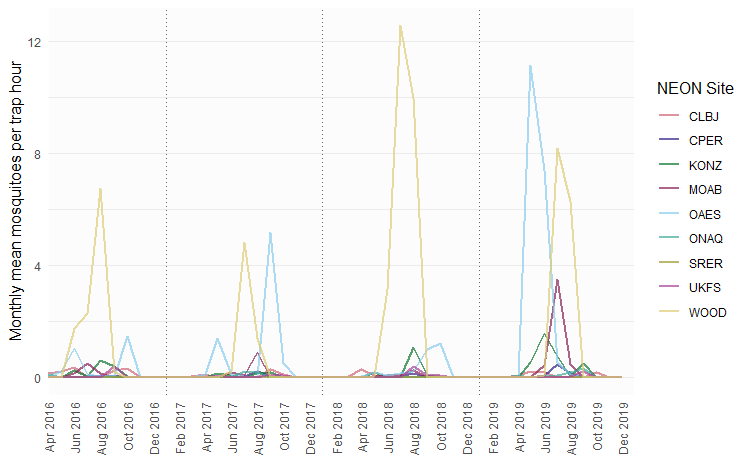
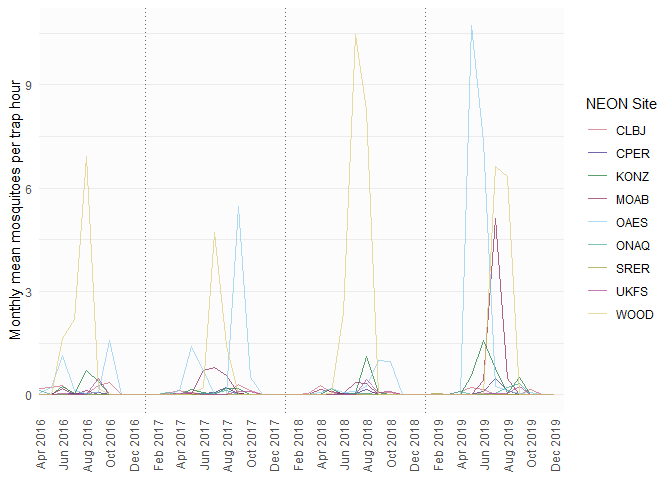
Xupdated to re-run with new data (NEON R-24)

diff --git a/README.md b/README.md
@@ -2,7 +2,7 @@ Broadscale spatial synchrony in a West Nile virus mosquito vector across
 multiple timescales
 ================
 Amy Bauer,
-last edited 2024-02-08
+last edited 2024-04-24
 
 ### Preparation
 
@@ -30,62 +30,61 @@ set.seed(1)
 
 ### *Culex tarsalis* data
 
-*Culex tarsalis* data ready for spatial wavelet analyses. Surveillance
-records were binned into continuous monthly bins (`tBin`), and mean
-number of mosquitoes per trap hour per month (mmpth) was calculated for
-each of the included NEON surveillance sites (`data/cx_tar_16_19_including_NAs.csv`).
-Then, we replaced `NA` values with `0` in preparation of the analyses 
-(`data/input/cx_tar_16_19_13jan24.csv`).
+Monthly mean number of *Culex tarsalis* mosquitoes per trap hour (mmpth)
+were calculated for each of the 9 included NEON surveillance sites
+(`data/Cx_tarsalis_syn_monthly_mmpth_new.csv`).We then imputed `NA`
+values with `0` in preparation of the spatial wavelet analyses
+(`data/input/Cx_tarsalis_syn_monthly_mmpth_new_filled.csv`).
 
-<img src="README_files/figure-gfm/NEON mmpth timeseries plot-1.png" style="display: block; margin: auto;" />
+![](README_files/figure-gfm/NEON%20mmpth%20timeseries%20plot-1.png)<!-- -->
 
-| tBin |   CLBJ |   CPER |   KONZ |   MOAB |    OAES |   ONAQ |   SRER |   UKFS |    WOOD |
-|-----:|-------:|-------:|-------:|-------:|--------:|-------:|-------:|-------:|--------:|
-|    4 | 0.1492 | 0.0000 | 0.0000 | 0.0000 |  0.0358 | 0.1080 | 0.0000 | 0.0000 |  0.0000 |
-|    5 | 0.2175 | 0.0000 | 0.0101 | 0.0046 |  0.2061 | 0.0000 | 0.0000 | 0.0074 |  0.0000 |
-|    6 | 0.3510 | 0.0078 | 0.2505 | 0.1529 |  1.0519 | 0.0131 | 0.0000 | 0.0306 |  1.7385 |
-|    7 | 0.0038 | 0.0390 | 0.0402 | 0.5136 |  0.1112 | 0.0032 | 0.0020 | 0.0126 |  2.2861 |
-|    8 | 0.0012 | 0.0385 | 0.6038 | 0.1551 |  0.0268 | 0.0057 | 0.0000 | 0.0091 |  6.7437 |
-|    9 | 0.2663 | 0.0687 | 0.3814 | 0.0000 |  0.0550 | 0.0016 | 0.0071 | 0.4114 |  0.1994 |
-|   10 | 0.3337 | 0.0000 | 0.0528 | 0.0000 |  1.4720 | 0.0000 | 0.0034 | 0.0029 |  0.0017 |
-|   11 | 0.0116 | 0.0000 | 0.0000 | 0.0000 |  0.0063 | 0.0000 | 0.0000 | 0.0000 |  0.0000 |
-|   12 | 0.0000 | 0.0000 | 0.0000 | 0.0000 |  0.0000 | 0.0000 | 0.0000 | 0.0000 |  0.0000 |
-|   13 | 0.0000 | 0.0000 | 0.0000 | 0.0000 |  0.0000 | 0.0000 | 0.0000 | 0.0000 |  0.0000 |
-|   14 | 0.0000 | 0.0000 | 0.0000 | 0.0000 |  0.0000 | 0.0000 | 0.0000 | 0.0000 |  0.0000 |
-|   15 | 0.0332 | 0.0000 | 0.0000 | 0.0000 |  0.0103 | 0.0524 | 0.0000 | 0.0000 |  0.0000 |
-|   16 | 0.1101 | 0.0000 | 0.0036 | 0.0000 |  0.1250 | 0.0000 | 0.0027 | 0.0198 |  0.0000 |
-|   17 | 0.0224 | 0.0000 | 0.1536 | 0.0201 |  1.3947 | 0.0188 | 0.0000 | 0.0607 |  0.0000 |
-|   18 | 0.0070 | 0.0196 | 0.0597 | 0.1974 |  0.1026 | 0.0225 | 0.0000 | 0.0040 |  0.2073 |
-|   19 | 0.0000 | 0.0506 | 0.0119 | 0.0899 |  0.0468 | 0.2362 | 0.0026 | 0.0000 |  4.8317 |
-|   20 | 0.0060 | 0.2301 | 0.1630 | 0.9031 |  0.0204 | 0.1850 | 0.0000 | 0.0161 |  1.4138 |
-|   21 | 0.2958 | 0.0457 | 0.1662 | 0.0179 |  5.1726 | 0.0098 | 0.0027 | 0.0975 |  0.0126 |
-|   22 | 0.1120 | 0.0000 | 0.0035 | 0.0000 |  0.4991 | 0.0000 | 0.0000 | 0.0812 |  0.0000 |
-|   23 | 0.0016 | 0.0000 | 0.0000 | 0.0000 |  0.0000 | 0.0000 | 0.0000 | 0.0000 |  0.0000 |
-|   24 | 0.0000 | 0.0000 | 0.0000 | 0.0000 |  0.0000 | 0.0000 | 0.0016 | 0.0000 |  0.0000 |
-|   25 | 0.0000 | 0.0000 | 0.0000 | 0.0000 |  0.0000 | 0.0000 | 0.0030 | 0.0000 |  0.0000 |
-|   26 | 0.0035 | 0.0000 | 0.0000 | 0.0000 |  0.0000 | 0.0000 | 0.0031 | 0.0000 |  0.0000 |
-|   27 | 0.0377 | 0.0000 | 0.0000 | 0.0000 |  0.0083 | 0.0000 | 0.0022 | 0.0000 |  0.0000 |
-|   28 | 0.2818 | 0.0000 | 0.0000 | 0.0152 |  0.0488 | 0.0000 | 0.0000 | 0.0000 |  0.0000 |
-|   29 | 0.0631 | 0.0059 | 0.1736 | 0.0354 |  0.1847 | 0.0000 | 0.0000 | 0.0000 |  0.0336 |
-|   30 | 0.0039 | 0.0220 | 0.0080 | 0.0929 |  0.0702 | 0.0198 | 0.0000 | 0.0076 |  3.1569 |
-|   31 | 0.0025 | 0.0260 | 0.0219 | 0.0772 |  0.1301 | 0.0209 | 0.0000 | 0.0000 | 12.5744 |
-|   32 | 0.0190 | 0.1608 | 1.0928 | 0.2671 |  0.2124 | 0.0572 | 0.0000 | 0.4014 |  9.9534 |
-|   33 | 0.0704 | 0.0031 | 0.0726 | 0.0000 |  0.9868 | 0.0068 | 0.0000 | 0.0612 |  0.0000 |
-|   34 | 0.0580 | 0.0000 | 0.0000 | 0.0000 |  1.2268 | 0.0000 | 0.0032 | 0.0873 |  0.0000 |
-|   35 | 0.0067 | 0.0000 | 0.0000 | 0.0000 |  0.0000 | 0.0000 | 0.0031 | 0.0000 |  0.0000 |
-|   36 | 0.0000 | 0.0000 | 0.0000 | 0.0000 |  0.0000 | 0.0000 | 0.0030 | 0.0000 |  0.0000 |
-|   37 | 0.0000 | 0.0000 | 0.0000 | 0.0000 |  0.0000 | 0.0000 | 0.0000 | 0.0000 |  0.0000 |
-|   38 | 0.0000 | 0.0000 | 0.0000 | 0.0000 |  0.0000 | 0.0000 | 0.0248 | 0.0000 |  0.0000 |
-|   39 | 0.0036 | 0.0000 | 0.0000 | 0.0000 |  0.0000 | 0.0000 | 0.0000 | 0.0000 |  0.0000 |
-|   40 | 0.0869 | 0.0000 | 0.0000 | 0.0000 |  0.0000 | 0.0800 | 0.0034 | 0.0000 |  0.0000 |
-|   41 | 0.2098 | 0.0000 | 0.5485 | 0.0000 | 11.1247 | 0.0040 | 0.0000 | 0.0000 |  0.0000 |
-|   42 | 0.1662 | 0.0618 | 1.5685 | 0.4204 |  7.3948 | 0.0244 | 0.0000 | 0.0261 |  0.0628 |
-|   43 | 0.0000 | 0.4819 | 0.7716 | 3.4868 |  0.5445 | 0.0718 | 0.0000 | 0.0208 |  8.1850 |
-|   44 | 0.0000 | 0.1356 | 0.0385 | 0.4555 |  0.1096 | 0.1881 | 0.0000 | 0.0275 |  6.2778 |
-|   45 | 0.0000 | 0.0000 | 0.4981 | 0.0000 |  0.0186 | 0.3142 | 0.0000 | 0.2066 |  0.0148 |
-|   46 | 0.1673 | 0.0000 | 0.0103 | 0.0000 |  0.0530 | 0.0000 | 0.0000 | 0.0000 |  0.0035 |
-|   47 | 0.0000 | 0.0000 | 0.0000 | 0.0000 |  0.0000 | 0.0000 | 0.0126 | 0.0000 |  0.0000 |
-|   48 | 0.0000 | 0.0000 | 0.0000 | 0.0000 |  0.0000 | 0.0000 | 0.0058 | 0.0000 |  0.0000 |
+| year | month | tBin |   CLBJ |   CPER |   KONZ |   MOAB |    OAES |   ONAQ |   SRER |   UKFS |    WOOD |
+|-----:|------:|-----:|-------:|-------:|-------:|-------:|--------:|-------:|-------:|-------:|--------:|
+| 2016 |     4 |    4 | 0.1649 | 0.0000 | 0.0000 | 0.0000 |  0.0358 | 0.1254 | 0.0000 | 0.0000 |  0.0000 |
+| 2016 |     5 |    5 | 0.1952 | 0.0000 | 0.0103 | 0.0067 |  0.2105 | 0.0000 | 0.0000 | 0.0056 |  0.0000 |
+| 2016 |     6 |    6 | 0.2554 | 0.0054 | 0.2515 | 0.1835 |  1.1251 | 0.0121 | 0.0000 | 0.0344 |  1.6416 |
+| 2016 |     7 |    7 | 0.0078 | 0.0407 | 0.0419 | 0.0000 |  0.1136 | 0.0043 | 0.0000 | 0.0142 |  2.1833 |
+| 2016 |     8 |    8 | 0.0013 | 0.0374 | 0.6942 | 0.1090 |  0.0268 | 0.0054 | 0.0000 | 0.0118 |  6.9308 |
+| 2016 |     9 |    9 | 0.2696 | 0.0761 | 0.3900 | 0.0000 |  0.0530 | 0.0017 | 0.0148 | 0.4827 |  0.1693 |
+| 2016 |    10 |   10 | 0.3408 | 0.0000 | 0.0142 | 0.0000 |  1.5665 | 0.0000 | 0.0073 | 0.0036 |  0.0015 |
+| 2016 |    11 |   11 | 0.0143 | 0.0000 | 0.0000 | 0.0000 |  0.0063 | 0.0000 | 0.0000 | 0.0000 |  0.0000 |
+| 2016 |    12 |   12 | 0.0000 | 0.0000 | 0.0000 | 0.0000 |  0.0000 | 0.0000 | 0.0000 | 0.0000 |  0.0000 |
+| 2017 |     1 |   13 | 0.0000 | 0.0000 | 0.0000 | 0.0000 |  0.0000 | 0.0000 | 0.0000 | 0.0000 |  0.0000 |
+| 2017 |     2 |   14 | 0.0000 | 0.0000 | 0.0000 | 0.0000 |  0.0000 | 0.0000 | 0.0000 | 0.0000 |  0.0000 |
+| 2017 |     3 |   15 | 0.0339 | 0.0000 | 0.0000 | 0.0000 |  0.0103 | 0.0584 | 0.0000 | 0.0000 |  0.0000 |
+| 2017 |     4 |   16 | 0.1139 | 0.0000 | 0.0036 | 0.0000 |  0.1248 | 0.0000 | 0.0075 | 0.0196 |  0.0000 |
+| 2017 |     5 |   17 | 0.0229 | 0.0000 | 0.1515 | 0.0373 |  1.3935 | 0.0077 | 0.0000 | 0.0745 |  0.0000 |
+| 2017 |     6 |   18 | 0.0076 | 0.0197 | 0.0613 | 0.7120 |  0.7051 | 0.0205 | 0.0000 | 0.0045 |  0.1980 |
+| 2017 |     7 |   19 | 0.0000 | 0.0549 | 0.0137 | 0.7937 |  0.0167 | 0.0314 | 0.0000 | 0.0000 |  4.7135 |
+| 2017 |     8 |   20 | 0.0048 | 0.2215 | 0.1722 | 0.5659 |  0.0191 | 0.1077 | 0.0000 | 0.0181 |  1.4401 |
+| 2017 |     9 |   21 | 0.2956 | 0.0456 | 0.1659 | 0.0323 |  5.4598 | 0.0097 | 0.0089 | 0.0992 |  0.0107 |
+| 2017 |    10 |   22 | 0.1149 | 0.0000 | 0.0018 | 0.0000 |  0.4987 | 0.0000 | 0.0000 | 0.0900 |  0.0000 |
+| 2017 |    11 |   23 | 0.0017 | 0.0000 | 0.0000 | 0.0000 |  0.0000 | 0.0000 | 0.0000 | 0.0000 |  0.0000 |
+| 2017 |    12 |   24 | 0.0000 | 0.0000 | 0.0000 | 0.0000 |  0.0000 | 0.0000 | 0.0049 | 0.0000 |  0.0000 |
+| 2018 |     1 |   25 | 0.0000 | 0.0000 | 0.0000 | 0.0000 |  0.0000 | 0.0000 | 0.0082 | 0.0000 |  0.0000 |
+| 2018 |     2 |   26 | 0.0035 | 0.0000 | 0.0000 | 0.0000 |  0.0000 | 0.0000 | 0.0089 | 0.0000 |  0.0000 |
+| 2018 |     3 |   27 | 0.0421 | 0.0000 | 0.0000 | 0.0000 |  0.0083 | 0.0000 | 0.0000 | 0.0000 |  0.0000 |
+| 2018 |     4 |   28 | 0.2771 | 0.0000 | 0.0000 | 0.1449 |  0.0487 | 0.0000 | 0.0000 | 0.0000 |  0.0000 |
+| 2018 |     5 |   29 | 0.0569 | 0.0058 | 0.1804 | 0.0943 |  0.1777 | 0.0000 | 0.0000 | 0.0000 |  0.0336 |
+| 2018 |     6 |   30 | 0.0041 | 0.0219 | 0.0080 | 0.0383 |  0.0699 | 0.0167 | 0.0000 | 0.0076 |  2.3765 |
+| 2018 |     7 |   31 | 0.0025 | 0.0219 | 0.0435 | 0.3435 |  0.0968 | 0.0248 | 0.0000 | 0.0000 | 10.4721 |
+| 2018 |     8 |   32 | 0.0201 | 0.1605 | 1.1205 | 0.3238 |  0.2431 | 0.0447 | 0.0000 | 0.4375 |  8.2475 |
+| 2018 |     9 |   33 | 0.0670 | 0.0000 | 0.0725 | 0.0000 |  0.9914 | 0.0136 | 0.0000 | 0.0612 |  0.0000 |
+| 2018 |    10 |   34 | 0.0579 | 0.0000 | 0.0000 | 0.0000 |  0.9777 | 0.0000 | 0.0000 | 0.0872 |  0.0000 |
+| 2018 |    11 |   35 | 0.0067 | 0.0000 | 0.0000 | 0.0000 |  0.0000 | 0.0000 | 0.0089 | 0.0000 |  0.0000 |
+| 2018 |    12 |   36 | 0.0000 | 0.0000 | 0.0000 | 0.0000 |  0.0000 | 0.0000 | 0.0098 | 0.0000 |  0.0000 |
+| 2019 |     1 |   37 | 0.0000 | 0.0000 | 0.0000 | 0.0000 |  0.0000 | 0.0000 | 0.0000 | 0.0000 |  0.0000 |
+| 2019 |     2 |   38 | 0.0000 | 0.0000 | 0.0000 | 0.0000 |  0.0000 | 0.0000 | 0.0368 | 0.0000 |  0.0000 |
+| 2019 |     3 |   39 | 0.0036 | 0.0000 | 0.0000 | 0.0000 |  0.0000 | 0.0000 | 0.0000 | 0.0000 |  0.0000 |
+| 2019 |     4 |   40 | 0.0889 | 0.0000 | 0.0000 | 0.0000 |  0.0000 | 0.0920 | 0.0049 | 0.0000 |  0.0000 |
+| 2019 |     5 |   41 | 0.2065 | 0.0000 | 0.5441 | 0.0000 | 10.7210 | 0.0060 | 0.0000 | 0.0000 |  0.0000 |
+| 2019 |     6 |   42 | 0.1623 | 0.0780 | 1.5665 | 0.4110 |  7.3684 | 0.0000 | 0.0000 | 0.0327 |  0.0453 |
+| 2019 |     7 |   43 | 0.0000 | 0.4724 | 0.7668 | 5.1243 |  0.2478 | 0.0380 | 0.0000 | 0.0260 |  6.6209 |
+| 2019 |     8 |   44 | 0.0000 | 0.1266 | 0.0385 | 0.4810 |  0.1095 | 0.2152 | 0.0000 | 0.0343 |  6.3359 |
+| 2019 |     9 |   45 | 0.0000 | 0.0000 | 0.4944 | 0.0000 |  0.0371 | 0.3317 | 0.0000 | 0.2281 |  0.0148 |
+| 2019 |    10 |   46 | 0.1639 | 0.0000 | 0.0110 | 0.0000 |  0.0529 | 0.0000 | 0.0000 | 0.0000 |  0.0033 |
+| 2019 |    11 |   47 | 0.0000 | 0.0000 | 0.0000 | 0.0000 |  0.0000 | 0.0000 | 0.0046 | 0.0000 |  0.0000 |
+| 2019 |    12 |   48 | 0.0000 | 0.0000 | 0.0000 | 0.0000 |  0.0000 | 0.0000 | 0.0057 | 0.0000 |  0.0000 |
 
 ### Load and transpose data
 
@@ -96,8 +95,6 @@ env <- c("prec", "tmin", "tmax", "rmin", "rmax")
 
 ### Prepare data for analyses
 
-dat.list <- list() # store all data in this list
-
 # pattern in env. variable data file names
 p <- "_for_wsyn_times_45.csv"
 
@@ -106,13 +103,18 @@ input.files <- list.files(inDir, pattern = ".csv")
 input.files
 ```
 
-    ## [1] "acc_prec_for_wsyn_times_45.csv" "cx_tar_16_19_13jan24.csv"      
-    ## [3] "rmax_for_wsyn_times_45.csv"     "rmin_for_wsyn_times_45.csv"    
-    ## [5] "tmax_for_wsyn_times_45.csv"     "tmin_for_wsyn_times_45.csv"
+    ## [1] "acc_prec_for_wsyn_times_45.csv"              
+    ## [2] "Cx_tarsalis_syn_monthly_mmpth_new_filled.csv"
+    ## [3] "rmax_for_wsyn_times_45.csv"                  
+    ## [4] "rmin_for_wsyn_times_45.csv"                  
+    ## [5] "tmax_for_wsyn_times_45.csv"                  
+    ## [6] "tmin_for_wsyn_times_45.csv"
 
 ``` r
 ## loop through all files
 # remove unnecessary columns, transpose & save as matrix objects in the dat.list list
+
+dat.list <- list() # store all data in this list
 
 for(f in input.files){
   
@@ -120,12 +122,12 @@ for(f in input.files){
   d <- read.csv(file.path(inDir, f))
   
   # if file = species data
-  if(str_detect(f, "cx_tar")){
+  if(str_detect(f, "Cx_tar")){
     
     v.name <- "cx_tar"
     
     d1 <- d %>% 
-      arrange(tBin) %>% select(-c(tBin)) %>% t() 
+      arrange(tBin) %>% select(-c(tBin, year, month)) %>% t() 
     
     dat.list[[v.name]] <- d1
   }
@@ -136,7 +138,7 @@ for(f in input.files){
     v.name <- f %>% str_remove(p) %>% word(-1, sep = "_")
 
     d1 <- d %>% 
-      arrange(tBin) %>% select(-c(year, month, tBin)) %>% t() 
+      arrange(tBin) %>% select(-c(tBin, year, month)) %>% t() 
     
     dat.list[[v.name]] <- d1
   }
@@ -235,7 +237,7 @@ resp <- 1         # index of response variable
 pred <- 2:6       # index of predictor variable
 norm <- "powall"  # normalization of wavelet transforms to use
 
-## wsyn::wlmtest()
+## wsyn::wlmtest() - wlmtest(wlmobj, drop, sigmethod, nrand)
 n <- 10000        # nrand
 
 ## wsyn::bandtest() 
@@ -303,7 +305,7 @@ nrand
 tmin
 </td>
 <td style="text-align:right;">
-0.0678
+0.0494
 </td>
 <td style="text-align:left;">
 aaft
@@ -317,7 +319,7 @@ aaft
 rmin
 </td>
 <td style="text-align:right;">
-0.0938
+0.0896
 </td>
 <td style="text-align:left;">
 aaft
@@ -331,7 +333,7 @@ aaft
 tmax
 </td>
 <td style="text-align:right;">
-0.1362
+0.1247
 </td>
 <td style="text-align:left;">
 aaft
@@ -345,7 +347,7 @@ aaft
 rmax
 </td>
 <td style="text-align:right;">
-0.2035
+0.4724
 </td>
 <td style="text-align:left;">
 aaft
@@ -359,7 +361,7 @@ aaft
 prec
 </td>
 <td style="text-align:right;">
-0.6689
+0.7250
 </td>
 <td style="text-align:left;">
 aaft
@@ -451,13 +453,13 @@ resids
 rmin
 </td>
 <td style="text-align:right;">
-44.290
+42.769
 </td>
 <td style="text-align:right;">
-36.228
+35.837
 </td>
 <td style="text-align:right;">
-19.482
+21.394
 </td>
 </tr>
 <tr>
@@ -465,13 +467,13 @@ rmin
 tmax
 </td>
 <td style="text-align:right;">
-100.684
+100.676
 </td>
 <td style="text-align:right;">
--1.738
+-2.303
 </td>
 <td style="text-align:right;">
-1.054
+1.627
 </td>
 </tr>
 <tr>
@@ -479,13 +481,13 @@ tmax
 tmin
 </td>
 <td style="text-align:right;">
-99.407
+99.490
 </td>
 <td style="text-align:right;">
--0.518
+-1.212
 </td>
 <td style="text-align:right;">
-1.111
+1.722
 </td>
 </tr>
 </tbody>
@@ -694,10 +696,10 @@ p_value
 cx_tar
 </td>
 <td style="text-align:right;">
--0.00571
+-0.00491
 </td>
 <td style="text-align:right;">
-0.222
+0.242
 </td>
 </tr>
 <tr>
@@ -782,10 +784,10 @@ p_value
 cx_tar
 </td>
 <td style="text-align:right;">
--0.00909
+-0.00778
 </td>
 <td style="text-align:right;">
-0.073
+0.096
 </td>
 </tr>
 <tr>
